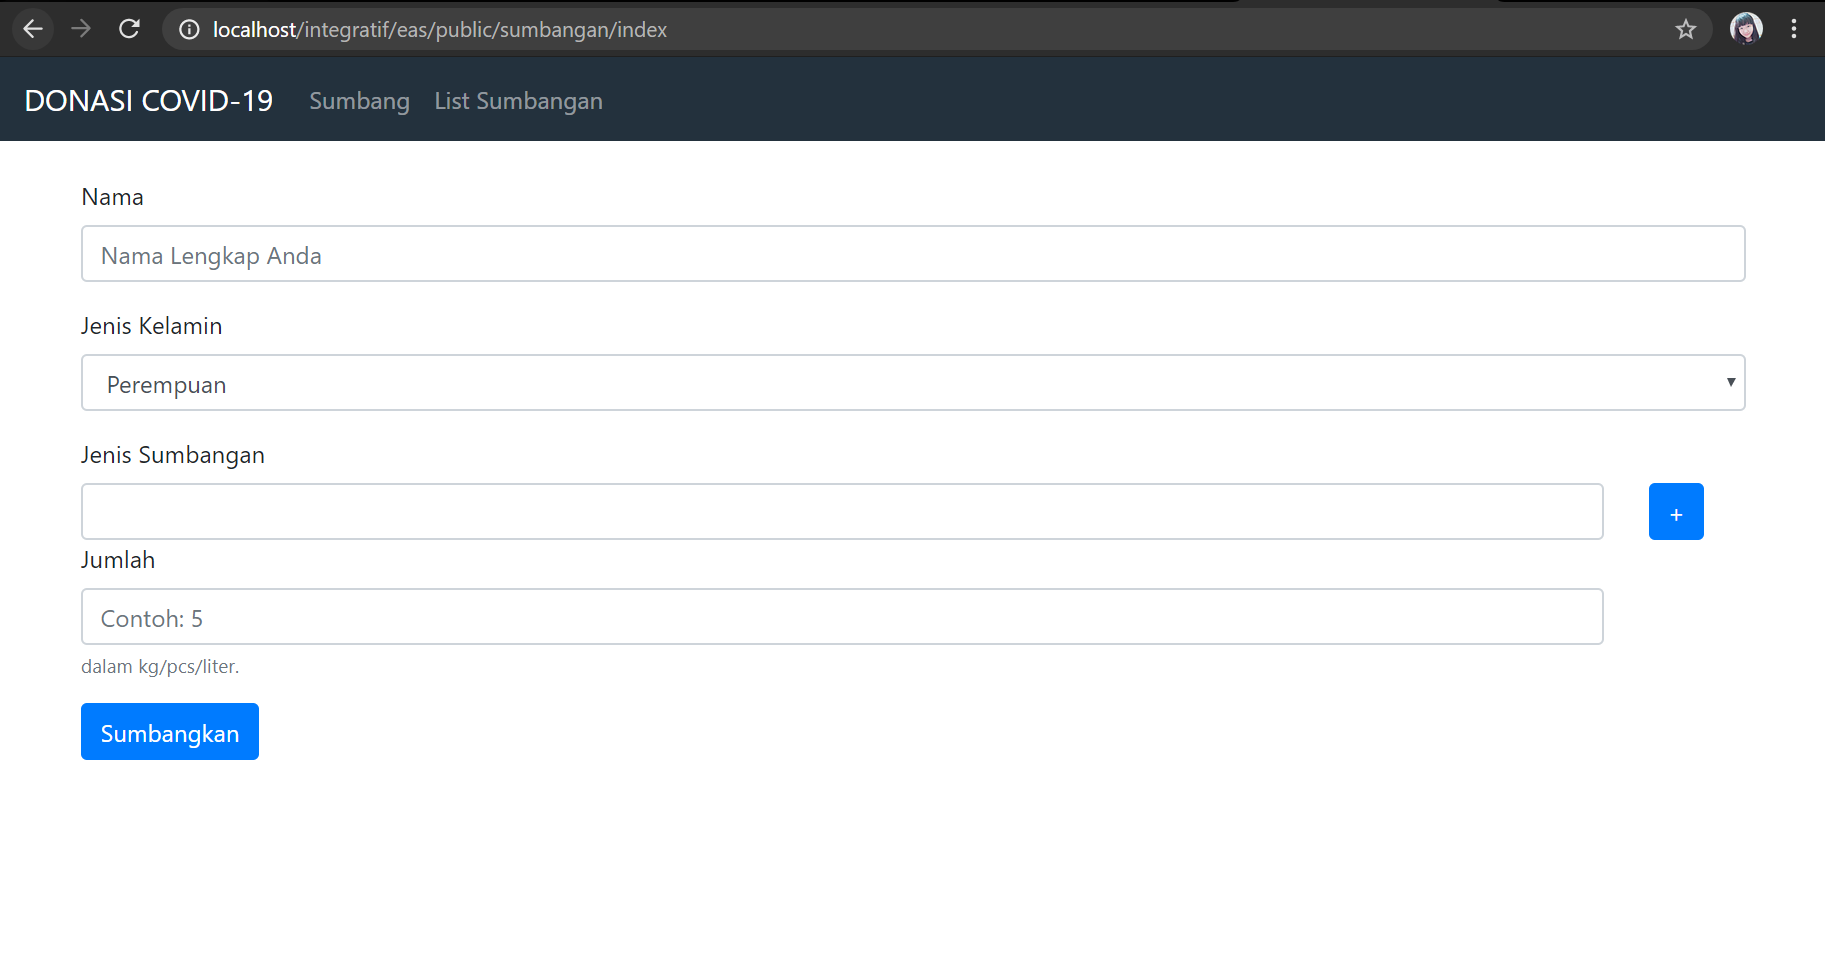
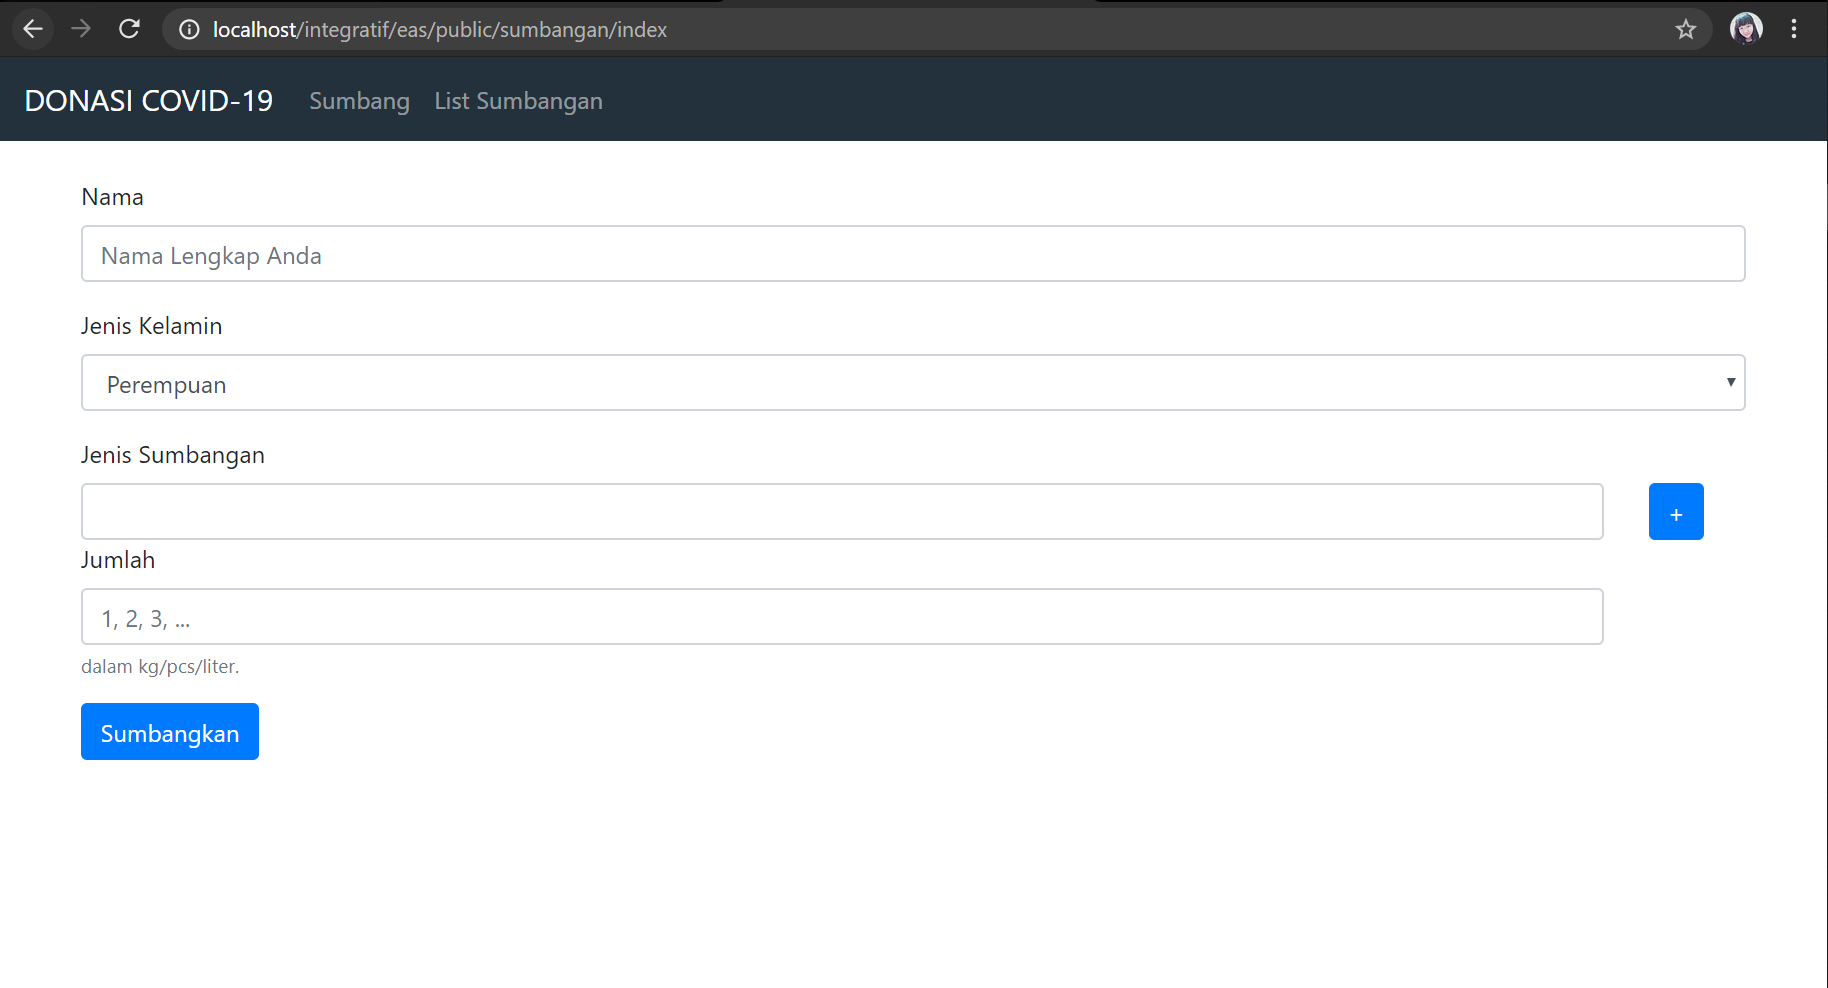
up

diff --git a/app/views/sumbangan/index.html b/app/views/sumbangan/index.html
@@ -44,7 +44,7 @@
                         {% endfor %}
                     </datalist>
                     <label for="jumlah[]">Jumlah</label>
-                    <input type="number" class="form-control" id="jumlah[]" name="jumlah[]" placeholder="Contoh: 5">
+                    <input type="number" class="form-control" id="jumlah[]" name="jumlah[]" placeholder="1, 2, 3, ...">
                     <small id="jumlah" class="form-text text-muted">dalam kg/pcs/liter.</small>
                 </div>
                 <div class="col">
@@ -60,42 +60,34 @@
 
 <script type="text/javascript">
     $(document).ready(function(){
-        var maxField = 10; //Input fields increment limitation
-        var addButton = $('.add_button'); //Add button selector
-        var wrapper = $('.field_wrapper'); //Input field wrapper
+        var maxField = 10; 
+        var addButton = $('.add_button'); 
+        var wrapper = $('.field_wrapper'); 
         var fieldHTML = '<div><label for="jenis_sumbangan[]">Jenis Sumbangan</label><div class="row"> '+
                         '    <div class="col-11"> '+
-                        '        <input class="form-control" type="text" list="jenis_sumbangan" name="jenis_sumbangan[]" /> '+
-                        '        <datalist id="jenis_sumbangan"> '+
-                        '            <option>Beras</option> '+
-                        '            <option>Minyak Goreng</option> '+
-                        '            <option>Mie Instant</option> '+
-                        '            <option>Gula</option> '+
-                        '        </datalist> '+
+                        '        <input class="form-control" type="text" name="jenis_sumbangan[]" /> '+
                         '        <label for="jumlah">Jumlah</label> '+
-                        '        <input type="number" class="form-control" id="jumlah" name="jumlah[]" placeholder="Contoh: 5"> '+
+                        '        <input type="number" class="form-control" id="jumlah" name="jumlah[]" placeholder="1, 2, 3, ..."> '+
                         '        <small id="jumlah" class="form-text text-muted">dalam kg/pcs/liter.</small> '+
                         '    </div> '+
                         '    <div class="col"> '+
                         '        <a href="javascript:void(0);" class="remove_button btn btn-danger">-</a> '+
                         '    </div> '+
-                        '</div></div>'; //New input field html
-        var x = 1; //Initial field counter is 1
+                        '</div></div>';
+        var x = 1; 
         
-        //Once add button is clicked
         $(addButton).click(function(){
-            //Check maximum number of input fields
             if(x < maxField){ 
-                x++; //Increment field counter
-                $(wrapper).append(fieldHTML); //Add field html
+                x++;
+                $(wrapper).append(fieldHTML); 
             }
         });
         
         //Once remove button is clicked
         $(wrapper).on('click', '.remove_button', function(e){
             e.preventDefault();
-            $(this).parent('div').parent('div').parent('div').remove(); //Remove field html
-            x--; //Decrement field counter
+            $(this).parent('div').parent('div').parent('div').remove(); 
+            x--; 
         });
     });
 </script>
